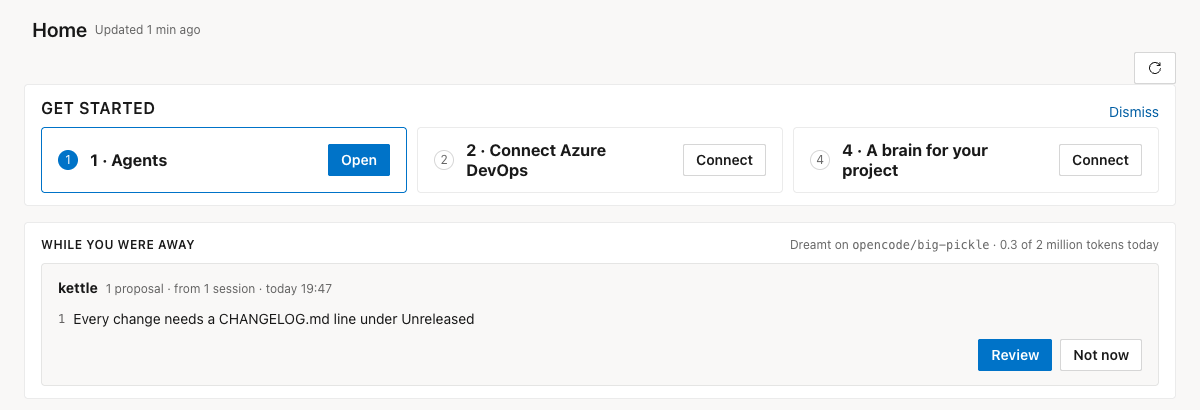
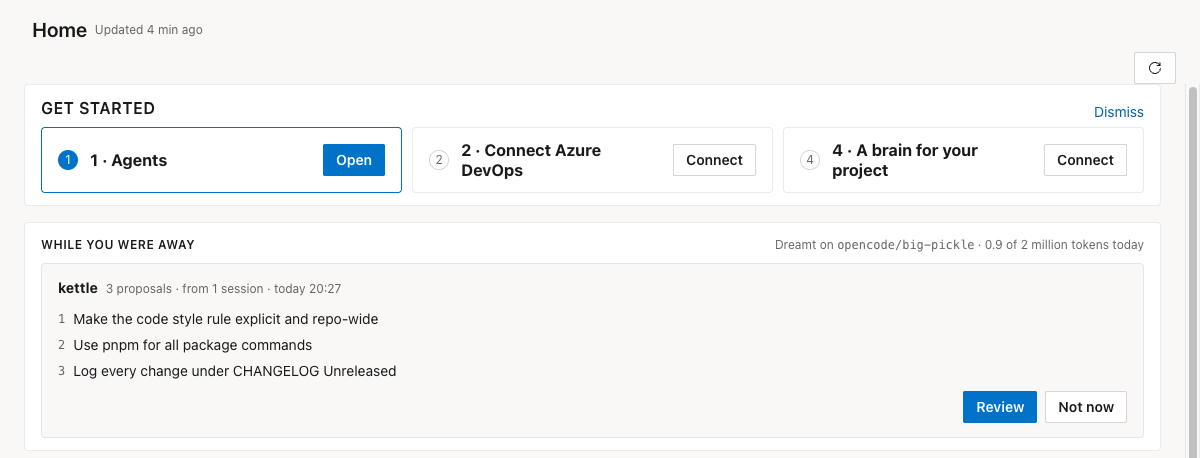
docs(dreams): check-run and evidence fixes in the change note
The change note and the spec's Changed during the build section gain the
check run's changes.diff, whole-word evidence decided before the cap and
the merge, and the real big-pickle runs (the one that failed every
proposal as its own repeat, and the re-run after the fix). Screenshots
06 and 08 are retaken from the re-run. The Finish gap is stated once.

Claude-Session: https://claude.ai/code/session_0187XrpCiRByX3KPgPmQWdoK

diff --git a/docs/changes/2026-11-20-dreams.md b/docs/changes/2026-11-20-dreams.md
@@ -11,9 +11,10 @@ the repo's checked-in skills, rules and agents (`.apm/`), on a local branch the 
 
 The finished thing in the dev app (fake OpenCode unless named): `assets/2026-11-20-dreams/01-setup.png` (Let Shellie
 dream, ready to switch on), `02-setup-light.png`, `03-dreams.png` (Dreams with a result waiting), `04-dreams-limit-light.png`
-(the day's limit reached), `05-home-band.png` / `06-home-band-light.png` (While you were away; 06 is a real
-`opencode/big-pickle` dream), `07-result-dropped.png` (a result with one proposal dropped), `08-result-big-pickle-light.png`
-(the real dream's result), `09-full-diff.png`, `10-nav-off.png`, `11-nav-on.png`, `12-nav-dreaming.png`,
+(the day's limit reached), `05-home-band.png` / `06-home-band-light.png` (While you were away; 06 is the real
+`opencode/big-pickle` dream of the check-run fix, three proposals), `07-result-dropped.png` (a result with one proposal
+dropped), `08-result-big-pickle-light.png` (that real dream's result: every quote the developer's, captioned "You, in"),
+`09-full-diff.png`, `10-nav-off.png`, `11-nav-on.png`, `12-nav-dreaming.png`,
 `13-nav-panel.png` (the running dream's panel with Stop), `14-nav-on-light.png`, `15-switched-off.png` (another model
 answered), `16-widening.png` (a held widening with its list and tick box), `17-captions-light.png` (a developer
 quote and an agent quote with their captions), `18-retest-setup-light.png` (setup after a wrong-model switch-off:
@@ -37,14 +38,20 @@ the model is untested).
   read-only check run, both `opencode run --format json --title "Shellie dream: …" -m <model>` with an inline config
   that pins every model and allows no shell, web, MCP or subagents; Shellie reverts anything outside the allowed
   folders, commits each proposal that passed the check (hooks off), and checks every assistant message of both
-  sessions against the chosen model. Another model throws the dream away, switches dreaming off and clears the
+  sessions against the chosen model. Before the check run Shellie writes the propose run's changes to `changes.diff`
+  in the data folder (git's diff of the worktree against the base, untracked new files included, hooks off, cut at
+  2 MB with a closing line saying so); the check prompt (version 4) says the worktree already holds the proposals,
+  that the diff shows what they added and removed, and that "repeats or contradicts an existing source" means what
+  was in the repo before them. Another model throws the dream away, switches dreaming off and clears the
   model's passed test, so switching on again needs a new test.
 - **Evidence** (`evidence.ts`). Shellie checks each quote against the turns of the task it names: the quote is
-  cleaned (a leading `**Developer:**`/`**Claude:**`/`**Agent:**` label, quotation marks and spare whitespace off;
-  cut at a label inside) and looked for inside one turn, case-sensitively, at least 12 characters: `you` for a
-  developer turn, `agent` for an agent turn, else `unknown`. A proposal without a `you` quote is removed like one the
-  check failed. The result screen captions quotes "You, in", "The agent, in" or "From", unknown ones last. Both
-  prompts (version 3) ask for the developer's own words, copied exactly, without the label.
+  cleaned (a leading `**Developer:**`/`**Claude:**`/`**Agent:**` label, quotation marks around it as a matching pair
+  only, and spare whitespace off; cut at a label inside) and looked for inside one turn, case-sensitively, on word
+  boundaries at both ends (Unicode letters and digits), at least 3 words and 12 characters: `you` for a developer
+  turn, `agent` for an agent turn, else `unknown`. Who said each quote is decided before the cap of three and the
+  merge of proposals sharing a file: a proposal without a `you` quote counts as failed by the check, so it takes no
+  place and joins no kept group. The result screen captions quotes "You, in", "The agent, in" or "From", unknown
+  ones last. Both prompts ask for the developer's own words, copied exactly, without the label.
 - **Limit and cost** (`limit.ts`, `src/main/budget/openCode.ts`). Dream usage is read from OpenCode's database by the
   title prefix, checked every 30 s during a run; dream sessions are kept out of task sessions and get the ledger
   level `dream`, never sent to the cost server.
@@ -83,6 +90,14 @@ what it says):
 - Evidence is checked against the turns, not trusted: a proposal rests on at least one quote of the developer
   (owner's coordinator ruling after the first check); the stored quote is the cleaned one.
 - A wrong-model switch-off clears `testedModel` in the same write, so Test the model again is a real precondition.
+- The check run judges against the sources as they were (finding of the 60-call real run, see Verified): it gets
+  `changes.diff`, and must never fail a proposal because its own added text is now in the file. The read-only
+  compare looks only inside the worktree, so `changes.diff` (in the data folder) does not trip it.
+- A quote is the developer's only on whole words (a review finding: "use the helper" matched inside "refuse the
+  helpers"), with at least 3 words and 12 characters; a lone apostrophe is never stripped as a quotation mark.
+- Evidence is decided before the cap and the merge (a review finding: a fourth proposal with a real quote was
+  dropped while three without one took the places, and a merged group could carry a member's unsupported change).
+  The runner marks such proposals failed in its copy of the report before `groupProposals`, which stays pure.
 
 ## Verified
 
@@ -119,12 +134,12 @@ what it says):
     "Today's limit reached" with a tiny token limit; a narrowing (lower limit, applied at once) and a widening (held,
     with its list and tick box); Not now; Discard dream (proposals remembered as rejected); light and dark themes.
   - With the real `opencode` 1.19.3 and `opencode/big-pickle` only: the setup test passed (1 call); one dream ran end
-    to end (Dream now) and proposed one new rule, `.apm/instructions/changelog.instructions.md` ("Every change needs a
-    CHANGELOG.md line under Unreleased"), from the twice-given correction; the check passed it. OpenCode's database
-    (read only): the test, propose and check sessions had 1, 8 and 6 assistant messages, 15 in all, every one
-    `opencode/big-pickle` with agent `build`, no child sessions. OpenCode wrote no file into the worktree during
-    either run (a 2 s file listing, ignored files included, saw only the proposal's file), and the check run did not
-    trip "The check run changed files".
+    to end (Dream now) and proposed one new rule, `.apm/instructions/changelog.instructions.md` (titled "Every change
+    needs a CHANGELOG.md line under Unreleased"), from the twice-given correction; the check passed it. OpenCode's
+    database (read only): the test, propose and check sessions had 1, 8 and 6 assistant messages, 15 in all, every
+    one `opencode/big-pickle` with agent `build`, no child sessions. The proposal's file was written in the propose
+    run; nothing was written into the worktree during the check run (a 2 s file listing, ignored files included), and
+    "The check run changed files" did not trip.
   - Finish on the task opened from a dream: seen, "2 commits not pushed" against the right base (`origin/main`), with
     Push and clean-up; not seen, the pull request offer, which needs an Azure DevOps connection (the throwaway repo
     has none). Nothing was pushed.
@@ -139,6 +154,21 @@ what it says):
     total" (from a correction given twice) when the cap stopped it at 8 calls, before its report and the check. So
     no proposal survived, and what the real model's quotes become under the new prompt was not seen. All 9 calls
     were `opencode/big-pickle`.
+  - A third real dream, capped at 60 calls (never reached): 2 proposals, all four quotes exact developer lines; the
+    check run failed both, each because the file already held the proposal's own text ("…
+    logging.instructions.md already contains the same rule verbatim…"): it read the worktree, which holds the
+    proposals. 22 calls, all `opencode/big-pickle`. This led to `changes.diff` and the check prompt's version 4.
+  - After that fix and the evidence rulings, the same seeded dream again (the task's covered mark set back to before
+    that run; real `opencode` 1.19.3, `opencode/big-pickle` only, cap 60 calls, never reached): the propose run made
+    3 proposals (a changed style rule, a new pnpm rule, a new changelog rule), the check run passed all 3 ("…repeats
+    no other pre-existing rule…", "No pre-existing rule, skill or agent names a package manager…", "…there is no
+    repeat or contradiction…"), Shellie's evidence check found every one of the 8 quotes in a developer turn, and the
+    result screen showed 3 of 3 kept with every quote captioned "You, in Add a boil timer" (`06`, `08`). 19 model
+    calls (propose 8, check 11), 265 819 tokens, about 2.5 minutes; OpenCode's database (read only): every assistant
+    message `opencode/big-pickle`, agent `build`, no child sessions. All edits were made in the propose run; nothing
+    was written into the worktree during the check run. All three ideas are in the repo's rejection list from
+    earlier discarded dreams (named exports and pnpm from fake dreams, the changelog rule from the first real dream),
+    which the material's index shows; the model proposed them again and the check did not object.
   - Fixed after the first check (each test first, own commit): the full diff opened 0 px high; the running dream's panel
     was 8 px high below the window; "Reading 1 sessions"; the Now cell kept an old line after a check or switch-on;
     dream ids were reused after a stopped or discarded dream; Not now hid a later dream with a reused id; duplicate
@@ -148,15 +178,15 @@ what it says):
 
 - Not run on Windows (spawning, paths, the worktree folder length, killing the run's process tree).
 - Not run on the owner's licence model (GLM 5.3) or provider; whether its provider needs a plugin, and how good the
-  proposals are, is unknown. Only one real dream ran, on one invented session.
+  proposals are, is unknown. Real `opencode/big-pickle` dreams ran four times (one stopped at an 8-call cap), all on
+  one invented session.
 - No real pull request: Finish on a dream task was seen only up to its offer, on a repo without an Azure DevOps
   connection, so the pull request offer and its target branch were not seen.
 - apm's source folder (`.apm/`) is assumed from apm's docs; the owner's project repos were not checked.
-- Finish on a task opened from a dream: the pull request offer and its target branch were not seen (they need an
-  Azure DevOps connection); "2 commits not pushed" against the right base was.
-- A real model's quotes under the version 3 prompt, and whether its proposals pass the evidence check, were not seen
-  (the 8-call cap stopped the only such run before its report). A real model that paraphrases will have its
-  proposals removed.
+- A real model that paraphrases a quote will have its proposal removed.
+- A rejected idea can come back: the last real dream re-proposed three ideas the rejection list names.
+- `changes.diff` leaves out ignored files, and builds a temporary index, which rehashes the worktree's files (slow on
+  a very large repo; the new files' blobs stay in the repo as loose objects until git's own clean-up).
 - The Home band sits below Get started on a fresh install (the canvas has it at the top); the canvas's journal summary
   line ("This week: 6 dreams …") is not built; the Dreams title row has its buttons on a row of their own; the full
   diff opens in place, not in Changes as the canvas says; the "found nothing" line was not seen in the app.

diff --git a/docs/superpowers/specs/2026-11-20-dreams-design.md b/docs/superpowers/specs/2026-11-20-dreams-design.md
@@ -341,10 +341,20 @@ Rulings made while building (2026-11-20) that change or add to what the sections
 - Section 8, Open as task: a setup failure or cancel of the task never deletes the dream branch, and the task
   remembers its branch already existed.
 - Section 4, step 3 and section 8, evidence: Shellie checks each quote against the turns of the task it names
-  (label, quotation marks and spare whitespace off, cut at a label inside; found inside one turn, case-sensitively,
-  at least 12 characters). Who said it is stored with the evidence (`you`, `agent`, `unknown`; missing in an older
-  record reads as `unknown`) and shown as "You, in", "The agent, in" or "From", unknown quotes last. A proposal
-  without a quote of the developer is removed like one the check failed. Both prompts ask for the developer's own
-  words, copied exactly, without the label.
+  (label, quotation marks as a matching pair around it and spare whitespace off, cut at a label inside; found inside
+  one turn, case-sensitively, on word boundaries at both ends with Unicode letters and digits, at least 3 words and 12
+  characters). Who said it is stored with the evidence (`you`, `agent`, `unknown`; missing in an older record reads
+  as `unknown`) and shown as "You, in", "The agent, in" or "From", unknown quotes last. A proposal without a quote of
+  the developer is removed like one the check failed; this is decided before the cap of 3 and the merge of proposals
+  that share a file, so such a proposal takes no place and joins no kept group (`removedByCheck` counts it). Both
+  prompts ask for the developer's own words, copied exactly, without the label.
+- Section 4, step 3: the check run reads the worktree, which already holds the proposals, so a real run failed every
+  proposal as repeating "an existing rule" that was its own edit. Before the check run Shellie writes the propose
+  run's changes to `changes.diff` in the dream's data folder (git's diff of the worktree against the base, hooks off,
+  untracked new files included, at most 2 MB, a cut file ending with a line saying so). The check prompt says the
+  worktree already contains the proposed changes, that `changes.diff` shows what was added and removed, that
+  "repeats or contradicts an existing source" means what was in the repo before these changes (lines without a
+  leading `+`, and files the diff does not list), and that a proposal is never failed because its own added text is
+  now in the file. The check run stays read-only on the worktree; `changes.diff` is outside it.
 - Section 5: when another model answered, the write that switches dreaming off also clears the model's passed test,
   so the setup's step 1 is not done until the model is tested again.
